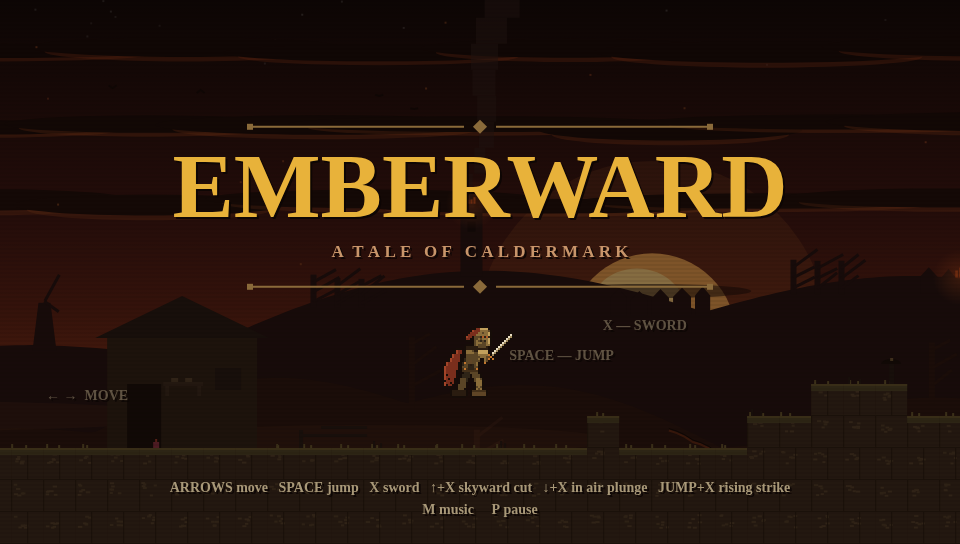
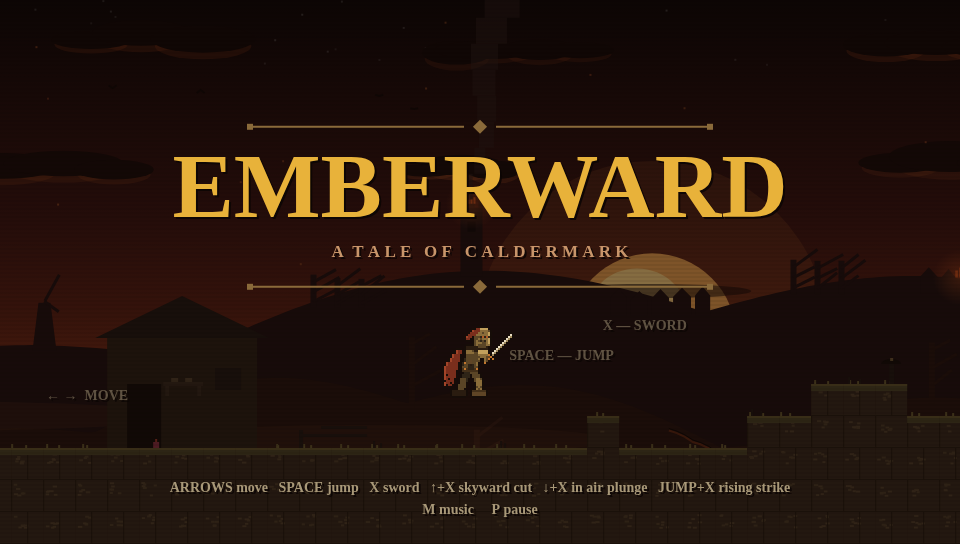
Clouds: two decks of separate lobed masses, not stripes
Per playtest feedback the three thin full-width bands read as
pinstripes. Now two decks, each a handful of discrete cloud masses
built from overlapping center-weighted lobes, every mass with its own
size and underside-light intensity, and open sky between them.

Claude-Session: https://claude.ai/code/session_01N7Xsz1urK3Aa7XoMPMqnMK

diff --git a/index.html b/index.html
@@ -1608,20 +1608,34 @@ function saveBest(){
 //======================================================================
 // DRAWING -- the Ash Harvest
 //======================================================================
-function cloudBand(y, n, drift, seed, dark, rim){
-  // ragged deck of cloud, underside lit from below -- the sky remembers the fires.
-  // slabs are spaced to overlap, with occasional torn gaps, so the band reads
-  // as one long strip instead of floating pancakes
-  const spanW = VW + 420;
-  for (let i = 0; i < n; i++){
-    if (hash(seed + 5, i) > 0.87) continue;                    // a tear in the deck
-    const w = 130 + hash(seed, i) * 130, h = 7 + hash(seed + 1, i) * 9;
-    const x = (((i / n) * spanW + hash(seed + 2, i) * 90 - frame * drift - cam.x * 0.03) % spanW + spanW) % spanW - 210;
-    const yy = y + hash(seed + 3, i) * 18 - 9;
-    ctx.fillStyle = rim;
-    ctx.beginPath(); ctx.ellipse(x, yy + h * 0.45, w * 0.9, h, 0, 0, 7); ctx.fill();
-    ctx.fillStyle = dark;
-    ctx.beginPath(); ctx.ellipse(x, yy, w, h, 0, 0, 7); ctx.fill();
+function cloudBand(y, drift, seed, dark, rimRGB){
+  // a handful of separate cloud masses, each puffed from overlapping lobes and
+  // each catching the fires below differently -- open sky between them
+  const spanW = VW + 700;
+  for (let m = 0; m < 4; m++){
+    if (hash(seed + 9, m) > 0.9) continue;
+    const mx = (((m / 4) * spanW + hash(seed, m) * 300 - frame * drift - cam.x * 0.03) % spanW + spanW) % spanW - 350;
+    if (mx < -280 || mx > VW + 280) continue;
+    const my2 = y + (hash(seed + 1, m) - 0.5) * 44;
+    const scale = 0.65 + hash(seed + 2, m) * 0.9;
+    const lit = 0.35 + hash(seed + 3, m) * 0.65;
+    const n = 3 + (hash(seed + 4, m) * 3 | 0);
+    for (let pass = 0; pass < 2; pass++){ // all rims beneath all bodies
+      for (let i = 0; i < n; i++){
+        const bias = 1 - Math.abs(i - (n - 1) / 2) / n;        // taller in the middle
+        const w = (30 + hash(seed + 5, m * 7 + i) * 50) * scale * (0.7 + bias * 0.7);
+        const h = (9 + hash(seed + 6, m * 7 + i) * 13) * scale * (0.6 + bias * 0.6);
+        const ox = (i - (n - 1) / 2) * w * 1.15 + (hash(seed + 7, m * 7 + i) - 0.5) * 16;
+        const oy = (hash(seed + 8, m * 7 + i) - 0.5) * 12 - bias * h * 0.5;
+        if (pass === 0){
+          ctx.fillStyle = 'rgba(' + rimRGB + ',' + (0.34 * lit).toFixed(3) + ')';
+          ctx.beginPath(); ctx.ellipse(mx + ox, my2 + oy + h * 0.5, w * 0.92, h, 0, 0, 7); ctx.fill();
+        } else {
+          ctx.fillStyle = dark;
+          ctx.beginPath(); ctx.ellipse(mx + ox, my2 + oy, w, h, 0, 0, 7); ctx.fill();
+        }
+      }
+    }
   }
 }
 function drawSky(){
@@ -1693,10 +1707,9 @@ function drawSky(){
     ctx.fillStyle = 'rgba(26,10,7,' + (0.45 + hash(7, i) * 0.25) + ')';
     ctx.beginPath(); ctx.ellipse(bx, my - mr * 0.55 + i * mr * 0.38, bw / 2, bh, 0, 0, 7); ctx.fill();
   }
-  // cloud decks lit from beneath by a burning kingdom
-  cloudBand(VH * 0.10, 7, 0.10, 21, '#150806', 'rgba(190,74,30,.30)');
-  cloudBand(VH * 0.24, 8, 0.16, 34, '#180a07', 'rgba(214,92,36,.26)');
-  cloudBand(VH * 0.38, 7, 0.24, 47, '#1c0c08', 'rgba(230,110,44,.20)');
+  // two decks of cloud, lit from beneath by a burning kingdom
+  cloudBand(VH * 0.12, 0.10, 21, '#150806', '204,84,32');
+  cloudBand(VH * 0.33, 0.20, 47, '#1a0b08', '230,110,44');
   // carrion birds wheeling over what's left
   ctx.strokeStyle = 'rgba(16,7,5,.8)'; ctx.lineWidth = 2;
   for (let i = 0; i < 6; i++){
